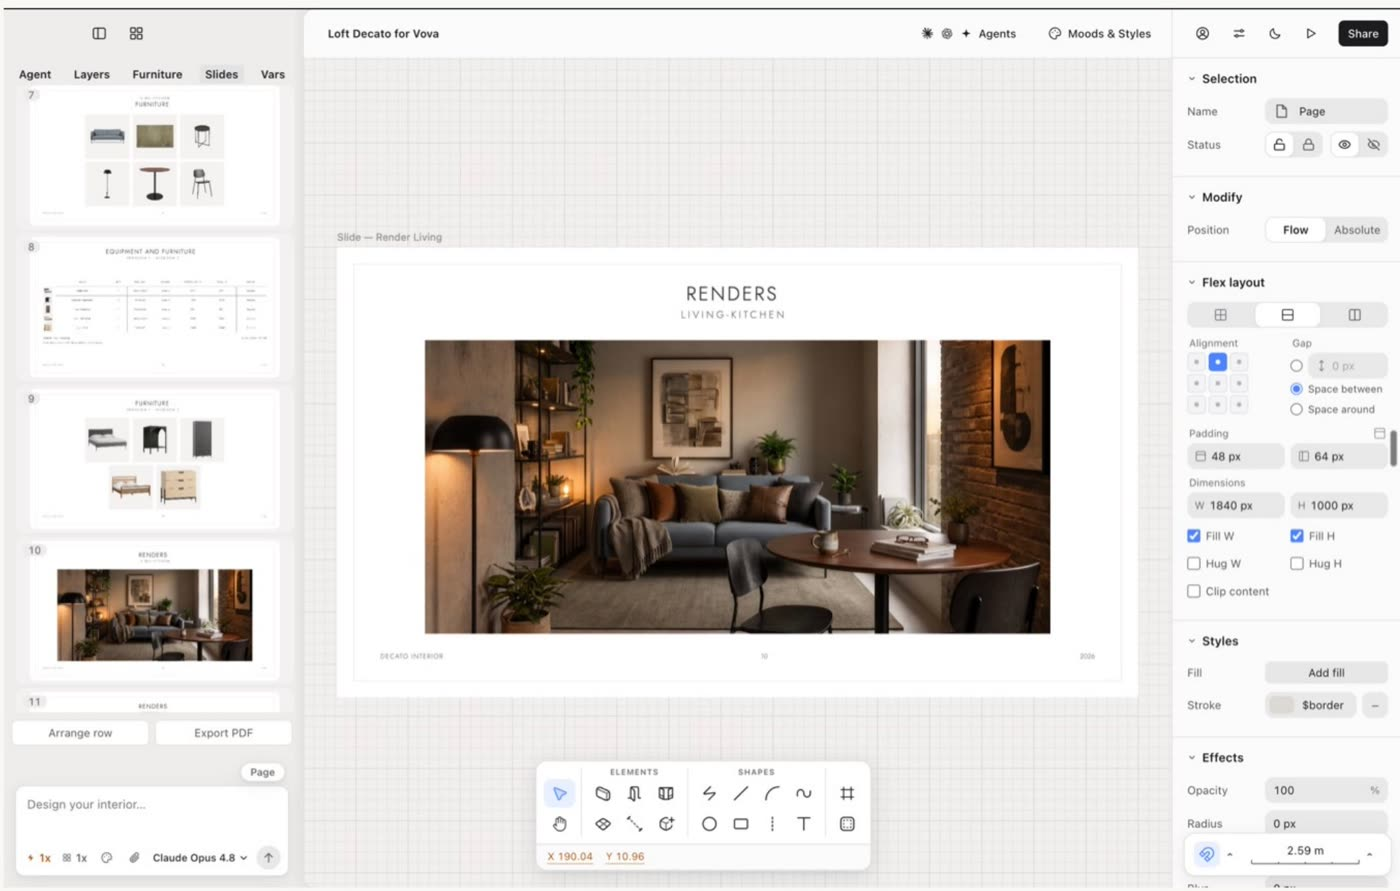
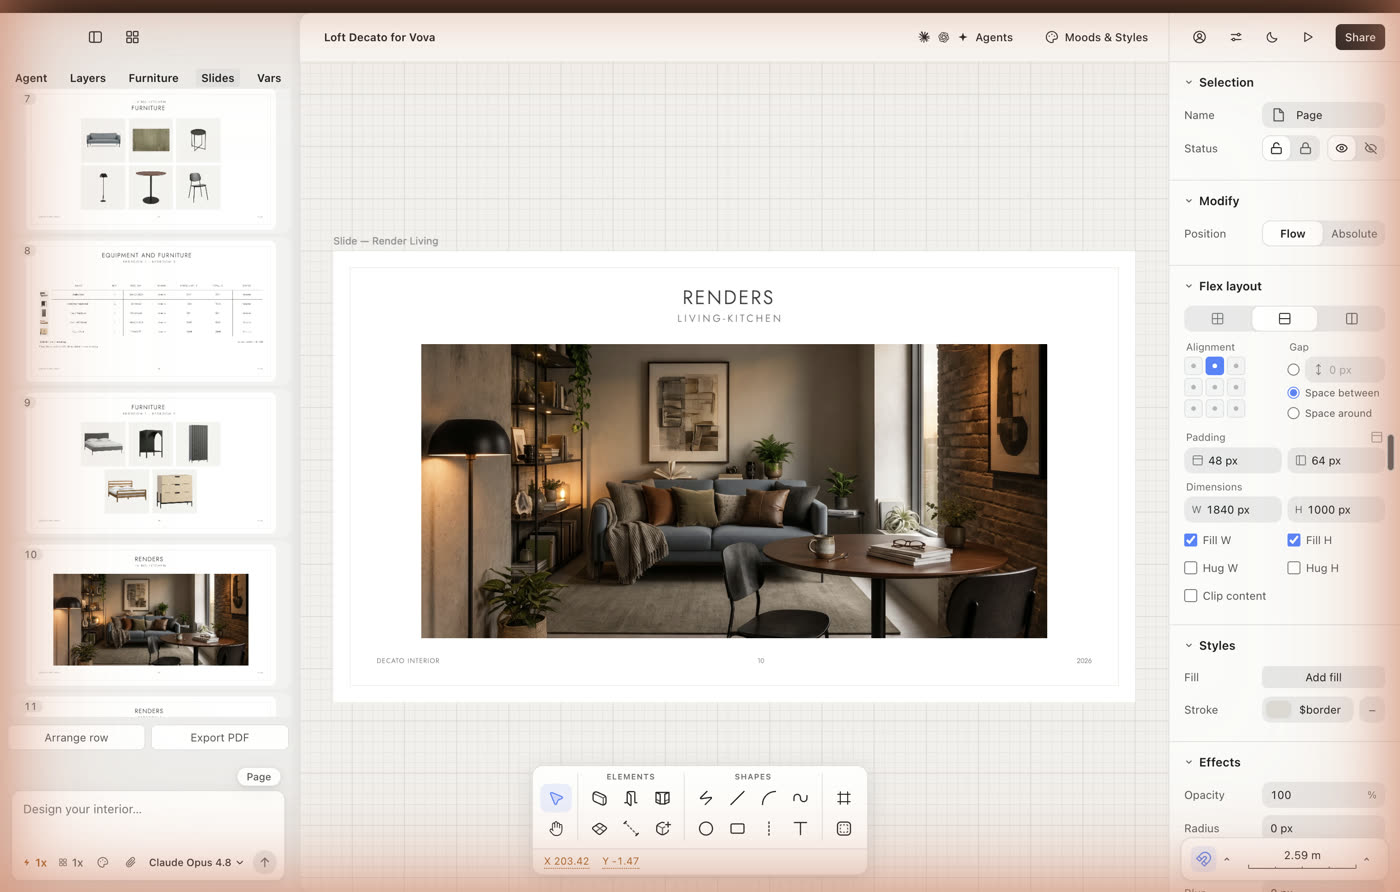
Use the August visuals on the Decato story, not the June ones
Everything on the page now comes from one project and one date: the
Loft set of 22 August 2026, the same material the September deck is
built from. The living-room render, the plan with its dimensions and
door swings, the six real products that went into that render, and the
app screenshot at native resolution with the window chrome cropped.

The June explainer images are gone.

diff --git a/projects/decato/index.html b/projects/decato/index.html
@@ -50,17 +50,17 @@
       <p>The counterintuitive thing we found while working out what to sell is that a better picture can cost the client money: a render that looks finished raises what contractors quote against it. That pushed us away from selling images and towards selling the check &mdash; does it fit, does it exist, what does it really cost &mdash; at the moment the client is choosing.</p>
 
       <figure class="shot">
-        <img src="/assets/projects/decato-render.jpg" alt="A living room rendered by Decato: a pale sectional sofa, oak coffee table, a sideboard under a wall-mounted screen, sheer curtains" width="1400" height="839" loading="lazy">
-        <figcaption>Rendered from the geometry of the plan and the products in the specification. Not generated from a prompt.</figcaption>
+        <img src="/assets/projects/decato-render.jpg" alt="A living room rendered by Decato: grey sofa with brown and olive cushions, black floor lamp, walnut round table, exposed brick by the window" width="1400" height="657" loading="lazy">
+        <figcaption>The Loft project, August 2026. Rendered from the geometry of the plan and the products in the specification, not generated from a prompt.</figcaption>
       </figure>
 
       <h2>What we shipped</h2>
       <p>A Mac app. You talk to it and it builds in the canvas. The floor plan becomes an editable scene at true scale. Products that exist are matched against the brief, the budget and the room. Anything that breaks a door swing, a clearance or a walkway is dropped before it is drawn. The render is generated from the geometry, not imagined from a prompt. The deck exports with every product row linking to its shop page.</p>
 
       <figure class="shot pair">
-        <img src="/assets/projects/decato-plan-in.jpg" alt="A CAD-style floor plan of a two-bedroom apartment with wall lengths and room areas" width="1150" height="1000" loading="lazy">
-        <img src="/assets/projects/decato-plan-furnished.jpg" alt="The same floor plan furnished to scale: bed, desk, sofa, dining table and kitchen" width="1200" height="900" loading="lazy">
-        <figcaption>Plan in, read as walls, doors and areas. Then furnished at true scale, before any render exists.</figcaption>
+        <img src="/assets/projects/decato-plan.jpg" alt="Floor plan of a two-bedroom flat read by Decato, with wall lengths, door swings, room areas and furniture placed to scale" width="1200" height="784" loading="lazy">
+        <img src="/assets/projects/decato-products.jpg" alt="Six product cut-outs: grey sofa, olive rug, black side table, floor lamp, round walnut table, black chair" width="1200" height="806" loading="lazy">
+        <figcaption>The same room twice: the plan with its dimensions, and the six real products that went into the render above.</figcaption>
       </figure>
       <p>Planning is free on your own model key. We charge for the expensive parts: a render costs us about six cents to serve and sells for forty to eighty inside a plan. Margin on the metered part is not the constraint. Distribution is.</p>
 
@@ -73,7 +73,7 @@
       <p>We launched on macOS, closed, to people we had already talked to. The users split in a way we had not planned for. Two homeowners ran six-hour unprompted sessions on their own floor plans, went through the whole workflow on several versions of a house, then took the result to a showroom to buy. Of twenty designers, one was enthusiastic, and for a reason we had not pitched: it removes 3D modelling from getting a render. The rest did not argue with the output. They argued with the agent doing the layout at all. One of them put it exactly: &ldquo;I studied for years, and now I am left nudging things.&rdquo;</p>
 
       <figure class="shot">
-        <img src="/assets/projects/decato-app.jpg" alt="The Decato app: a deck of renders and furniture slides on the left, a rendered living room in the canvas, layout controls on the right" width="1400" height="891" loading="lazy">
+        <img src="/assets/projects/decato-app.jpg" alt="The Decato app: a deck of furniture and render slides on the left, the living-room render in the canvas, layout controls on the right" width="1400" height="892" loading="lazy">
         <figcaption>What the first twenty designers saw: the agent, the scene and the client deck in one file.</figcaption>
       </figure>
       <p>Better auto-layout does not answer that. It is an objection to handing the work over, not to how the work came out. So we did not change the audience. We changed how much the agent is allowed to take: full autonomy for the homeowner, who has no authorship to defend; narrow autonomy for the designer, whose layout and picks stay theirs and who only wants the modelling gone. Same engine, same catalogue, same geometry check, one dial.</p>
